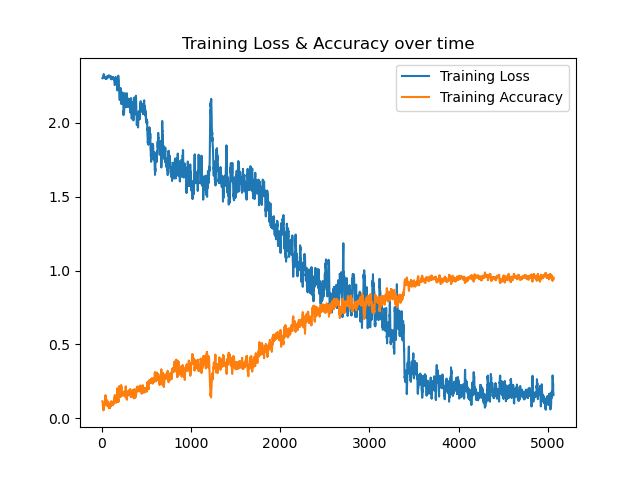
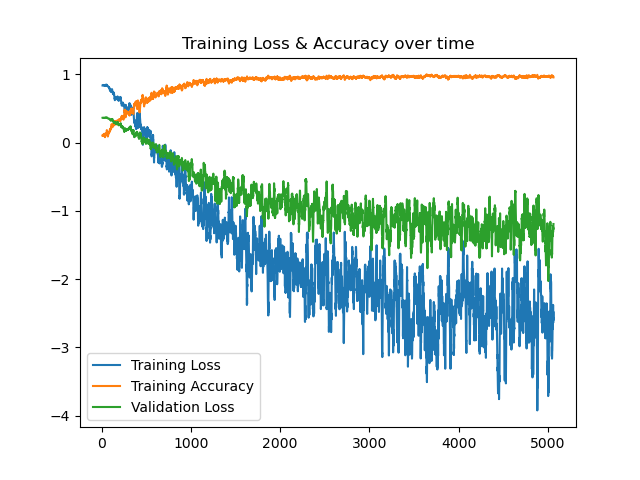
Changed to only one image the losses

diff --git a/CNNs/resnet.py b/CNNs/resnet.py
@@ -81,13 +81,13 @@ class ResNet18(ResNet):
 net = ResNet18()
 X = Tensor.randn((1, 1, 96, 96))
 
-train = False 
+train = True 
 target_size = (96,96)
 print(net(X).shape)
 
 if train:
    trainer = Trainer(net=net,net_name='resnet18')
-   net = trainer.train(resize=True, target_size=target_size)
+   net = trainer.train(resize=True, target_size=target_size, epochs=1)
 else:
     state_dict = nn.state.safe_load("./models/resnet18.safetensor")
     nn.state.load_state_dict(net, state_dict)

diff --git a/CNNs/README.md b/CNNs/README.md
@@ -1,28 +1,32 @@
+# Introduction
+
+I trained the models on digit MNIST because I wanted convinience. Later, I might use CIFAR-10 or something like that.
+
 # LeNet
 Training and validation of LeNet.
 
 ![Loss of Lenet](./assets/training_LeNetMax.png)
-![Validation of Lenet](./assets/validation_LeNetMax.png)
-
-
 
 # AlexNet
 
 Training and validation of AlexNet.
 
 ![Loss of AlexNet](./assets/training_alexNet.png)
-![Validation of Lenet](./assets/validation_alexNet.png)
 
 # VGG
 
 Training and validation of VGG.
 
 ![Loss of VGG11](./assets/training_VGG11.png)
-![Validation of VGG11](./assets/validation_VGG11.png)
 
 # Network in Network (NiN)
 
-Training and validation of NiN.
+Training and validation of NiN. Used log10 for this plot.
 
 ![Loss of NiN](./assets/training_NiN.png)
-![Validation of NiN](./assets/validation_NiN.png)
+
+# ResNet18
+
+Training and validation of ResNet18. I used log10 for this plot.
+
+![Loss of ResNet18](./assets/training_resnet18.png)
